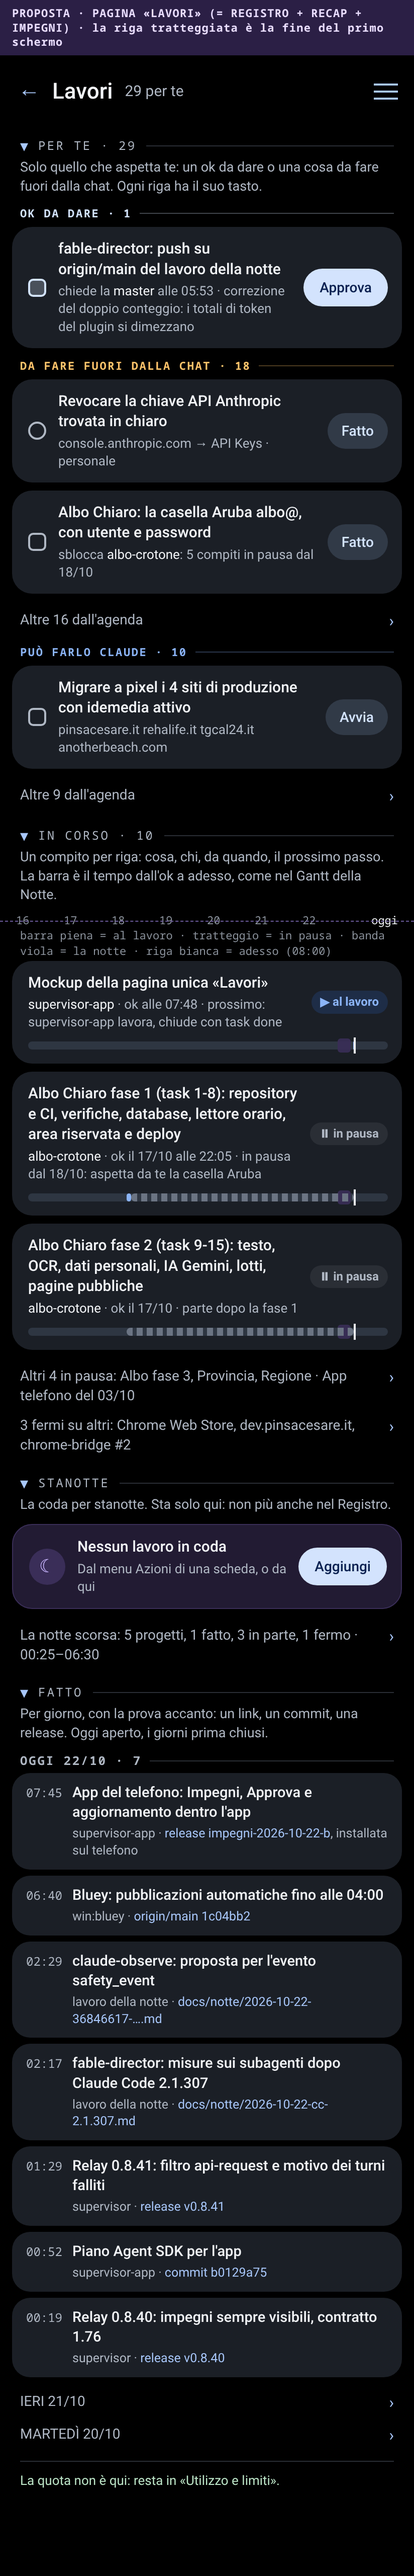
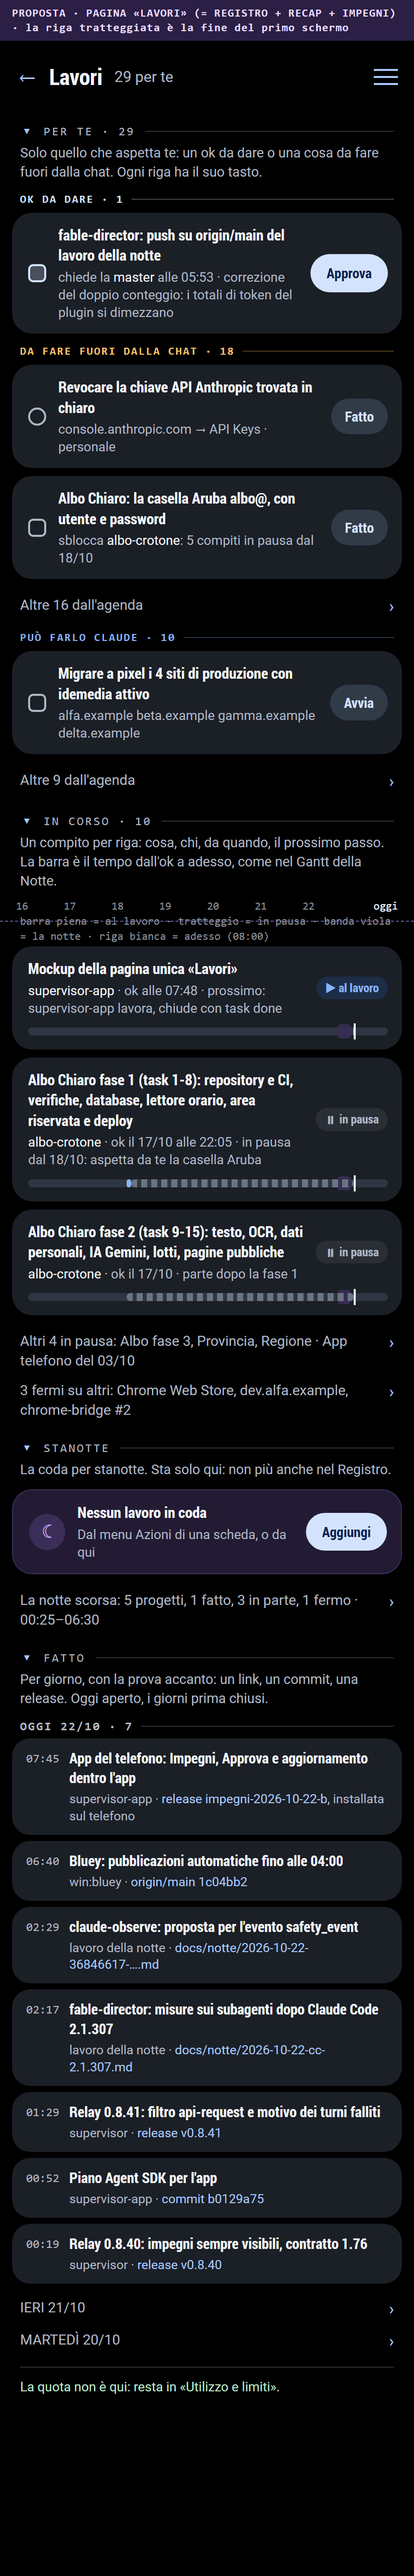
test, docs: neutral example names instead of real managed-site names in tests, verification notes and the Lavori mockup (supervisor-app-anonimizza-pubblici-28-10)

diff --git a/docs/mockup/2026-10-22-lavori/lavori-tablet.html b/docs/mockup/2026-10-22-lavori/lavori-tablet.html
@@ -64,7 +64,7 @@ body{width:1280px;background:var(--bg)}.screen{width:1280px;min-height:1360px;pa
 <div class=card><div class=row><span class="mark a"></span><div class=t><b>Albo Chiaro: la casella Aruba albo@, con utente e password</b><small>sblocca <em>albo-crotone</em>: 5 compiti in pausa dal 18/10</small></div><span class=tonal>Fatto</span></div></div>
 <div class=fold><span>Altre 16 dall'agenda</span><span class=ic>›</span></div>
 <div class=grp style="color:var(--run)">PUÒ FARLO CLAUDE · 10<i></i></div>
-<div class=card><div class=row><span class="mark a"></span><div class=t><b>Migrare a pixel i 4 siti di produzione con idemedia attivo</b><small>pinsacesare.it rehalife.it tgcal24.it anotherbeach.com</small></div><span class=tonal>Avvia</span></div></div>
+<div class=card><div class=row><span class="mark a"></span><div class=t><b>Migrare a pixel i 4 siti di produzione con idemedia attivo</b><small>alfa.example beta.example gamma.example delta.example</small></div><span class=tonal>Avvia</span></div></div>
 <div class=fold><span>Altre 9 dall'agenda</span><span class=ic>›</span></div>
 
 <div class=sec><span class=chev>▾</span>STANOTTE<span class=ln></span></div>
@@ -82,7 +82,7 @@ body{width:1280px;background:var(--bg)}.screen{width:1280px;min-height:1360px;pa
 <div class=card><div class=row><div class=t><b>Albo Chiaro fase 1 (task 1-8): repository e CI, verifiche, database, lettore orario, area riservata e deploy</b><small><em>albo-crotone</em> · ok il 17/10 alle 22:05 · in pausa dal 18/10: aspetta da te la casella Aruba</small></div><span class="state st-pa">⏸ in pausa</span></div><div class=track><i class=nite style="left:86%;width:3.6%"></i><i class=sol style="left:27.4%;width:1.2%"></i><i class=dash style="left:28.6%;width:61.9%"></i><i class=now style="left:90.5%"></i></div></div>
 <div class=card><div class=row><div class=t><b>Albo Chiaro fase 2 (task 9-15): testo, OCR, dati personali, IA Gemini, lotti, pagine pubbliche</b><small><em>albo-crotone</em> · ok il 17/10 · parte dopo la fase 1</small></div><span class="state st-pa">⏸ in pausa</span></div><div class=track><i class=nite style="left:86%;width:3.6%"></i><i class=dash style="left:27.4%;width:63.1%"></i><i class=now style="left:90.5%"></i></div></div>
 <div class=fold><span>Altri 4 in pausa: Albo fase 3, Provincia, Regione · App telefono del 03/10</span><span class=ic>›</span></div>
-<div class=fold><span>3 fermi su altri: Chrome Web Store, dev.pinsacesare.it, chrome-bridge #2</span><span class=ic>›</span></div>
+<div class=fold><span>3 fermi su altri: Chrome Web Store, dev.alfa.example, chrome-bridge #2</span><span class=ic>›</span></div>
 
 <div class=sec><span class=chev>▾</span>FATTO<span class=ln></span></div>
 <div class=expl>Per giorno, con la prova accanto: un link, un commit, una release. Oggi aperto, i giorni prima chiusi.</div>

diff --git a/docs/mockup/2026-10-22-lavori/lavori-telefono.html b/docs/mockup/2026-10-22-lavori/lavori-telefono.html
@@ -61,7 +61,7 @@ body{background:#120D1C;color:var(--text);font:15px/1.4 Roboto,system-ui,sans-se
 <div class=card><div class=row><span class="mark a"></span><div class=t><b>Albo Chiaro: la casella Aruba albo@, con utente e password</b><small>sblocca <em>albo-crotone</em>: 5 compiti in pausa dal 18/10</small></div><span class=tonal>Fatto</span></div></div>
 <div class=fold><span>Altre 16 dall'agenda</span><span class=ic>›</span></div>
 <div class=grp style="color:var(--run)">PUÒ FARLO CLAUDE · 10<i></i></div>
-<div class=card><div class=row><span class="mark a"></span><div class=t><b>Migrare a pixel i 4 siti di produzione con idemedia attivo</b><small>pinsacesare.it rehalife.it tgcal24.it anotherbeach.com</small></div><span class=tonal>Avvia</span></div></div>
+<div class=card><div class=row><span class="mark a"></span><div class=t><b>Migrare a pixel i 4 siti di produzione con idemedia attivo</b><small>alfa.example beta.example gamma.example delta.example</small></div><span class=tonal>Avvia</span></div></div>
 <div class=fold><span>Altre 9 dall'agenda</span><span class=ic>›</span></div>
 
 <div class=sec><span class=chev>▾</span>IN CORSO · 10<span class=ln></span></div>
@@ -74,7 +74,7 @@ body{background:#120D1C;color:var(--text);font:15px/1.4 Roboto,system-ui,sans-se
 <div class=card><div class=row><div class=t><b>Albo Chiaro fase 1 (task 1-8): repository e CI, verifiche, database, lettore orario, area riservata e deploy</b><small><em>albo-crotone</em> · ok il 17/10 alle 22:05 · in pausa dal 18/10: aspetta da te la casella Aruba</small></div><span class="state st-pa">⏸ in pausa</span></div><div class=track><i class=nite style="left:86%;width:3.6%"></i><i class=sol style="left:27.4%;width:1.2%"></i><i class=dash style="left:28.6%;width:61.9%"></i><i class=now style="left:90.5%"></i></div></div>
 <div class=card><div class=row><div class=t><b>Albo Chiaro fase 2 (task 9-15): testo, OCR, dati personali, IA Gemini, lotti, pagine pubbliche</b><small><em>albo-crotone</em> · ok il 17/10 · parte dopo la fase 1</small></div><span class="state st-pa">⏸ in pausa</span></div><div class=track><i class=nite style="left:86%;width:3.6%"></i><i class=dash style="left:27.4%;width:63.1%"></i><i class=now style="left:90.5%"></i></div></div>
 <div class=fold><span>Altri 4 in pausa: Albo fase 3, Provincia, Regione · App telefono del 03/10</span><span class=ic>›</span></div>
-<div class=fold><span>3 fermi su altri: Chrome Web Store, dev.pinsacesare.it, chrome-bridge #2</span><span class=ic>›</span></div>
+<div class=fold><span>3 fermi su altri: Chrome Web Store, dev.alfa.example, chrome-bridge #2</span><span class=ic>›</span></div>
 
 <div class=sec><span class=chev>▾</span>STANOTTE<span class=ln></span></div>
 <div class=expl>La coda per stanotte. Sta solo qui: non più anche nel Registro.</div>

diff --git a/docs/mockup/2026-10-22-lavori/home.html b/docs/mockup/2026-10-22-lavori/home.html
@@ -60,6 +60,6 @@ body{background:#120D1C;color:var(--text);font:15px/1.4 Roboto,system-ui,sans-se
 <div class=sec><span class=chev>▾</span>SESSIONI · 6<span class=ln></span></div>
 <div class=card><div class=row><span style="width:26px;height:26px;border-radius:50%;background:#3B82F6;flex:none"></span><div class=t><b>supervisor-app</b><small>mockup della pagina «Lavori» · al lavoro</small></div></div></div>
 <div class=card><div class=row><span style="width:26px;height:26px;border-radius:50%;background:#8B929C;flex:none"></span><div class=t><b>finanza</b><small>ferma da 14 ore</small></div></div></div>
-<div class=card><div class=row><span style="width:26px;height:26px;border-radius:50%;background:#8B929C;flex:none"></span><div class=t><b>smaggas-it</b><small>ferma da 11 ore</small></div></div></div>
+<div class=card><div class=row><span style="width:26px;height:26px;border-radius:50%;background:#8B929C;flex:none"></span><div class=t><b>shop-example-it</b><small>ferma da 11 ore</small></div></div></div>
 <div class=sec><span class=chev>▸</span>UTILIZZO<span class=ln></span><span class=sum>personale 5 h 2 % · settimana 0 %</span></div>
 </div>

diff --git a/mobile/src/test/kotlin/it/pixelbox/cmwatch/mobile/LavoriScreenTest.kt b/mobile/src/test/kotlin/it/pixelbox/cmwatch/mobile/LavoriScreenTest.kt
@@ -42,7 +42,7 @@ class LavoriScreenTest {
         AgendaRow("aperto", "personale", "franz", "Revocare la chiave API Anthropic trovata in chiaro", "console.anthropic.com → API Keys"),
         AgendaRow("aperto", "agenzia", "franz", "17 client_id residui: 6 con candidato da confermare", ".claude/DA-DECIDERE-client-id.md"),
         AgendaRow("aperto", "agenzia", "franz", "Svuotare i 46 container con Universal Analytics", ".claude/scan/tag-runtime.json"),
-        AgendaRow("aperto", "agenzia", "claude", "Migrare a pixel i 4 siti di produzione con idemedia attivo", "pinsacesare.it rehalife.it tgcal24.it"),
+        AgendaRow("aperto", "agenzia", "claude", "Migrare a pixel i 4 siti di produzione con idemedia attivo", "alfa.example beta.example gamma.example"),
         AgendaRow("aperto", "postazione", "claude", "Cancellare le cache orfane dei plugin", "~/.claude*/plugins/cache/"),
         AgendaRow("aperto", "postazione", "terzi", "Attesa revisione Chrome Web Store per chrome-bridge 1.12.0", "blocca la prova delle schede"),
         AgendaRow("fatto", "postazione", "nessuno", "Backups of the workstation every night", "crontab"),

diff --git a/mobile/src/test/kotlin/it/pixelbox/cmwatch/mobile/ClosingRowTest.kt b/mobile/src/test/kotlin/it/pixelbox/cmwatch/mobile/ClosingRowTest.kt
@@ -32,12 +32,12 @@ import java.time.ZoneId
 
 /**
  * chiusura-testo (Franz, 27/10 13:23, screenshot): nella card di una sessione finita che si sta chiudendo, il segno
- * «gerardosacco-com si sta chiudendo» stava accanto a «● aperta · ha finito il compito alle 13:07» e lo stato andava a
+ * «studio-example-com si sta chiudendo» stava accanto a «● aperta · ha finito il compito alle 13:07» e lo stato andava a
  * capo ogni due-tre lettere. Il segno va su una riga sua, sotto lo stato.
  */
 private object Closing {
     private val st = ContractJson.decodeState(File("../contract/state-1-question.json").readText())
-    const val NAME = "gerardosacco-com"
+    const val NAME = "studio-example-com"
     val state: State = st.copy(sessions = st.sessions.map {
         if (it.name != "field-notes") it
         else it.copy(name = NAME, state = SessionState.IDLE, finished = true, since = st.ts - 3600,

diff --git a/mobile/src/test/kotlin/it/pixelbox/cmwatch/mobile/SummaryListTest.kt b/mobile/src/test/kotlin/it/pixelbox/cmwatch/mobile/SummaryListTest.kt
@@ -42,7 +42,7 @@ class SummaryListTest {
         val st2 = idle.copy(commitments = night.commitments.take(1) + idle.commitments!!, approvals = listOf(ok))
         val agenda = it.pixelbox.cmwatch.contract.AgendaPage(listOf(
             it.pixelbox.cmwatch.contract.AgendaRow("aperto", "personale", "franz", "Revocare la chiave API Anthropic trovata in chiaro", "console.anthropic.com → API Keys"),
-            it.pixelbox.cmwatch.contract.AgendaRow("aperto", "agenzia", "claude", "Migrare a pixel i 4 siti con idemedia attivo", "pinsacesare.it rehalife.it"),
+            it.pixelbox.cmwatch.contract.AgendaRow("aperto", "agenzia", "claude", "Migrare a pixel i 4 siti con idemedia attivo", "alfa.example beta.example"),
         ), owner = "franz")
         val today = java.time.LocalDate.of(2026, 9, 12)
         CmPhoneTheme(still = true) {

diff --git a/web/src/lib/rules.test.ts b/web/src/lib/rules.test.ts
@@ -28,7 +28,7 @@ describe('Prossimi', () => {
     expect(b.steps).toEqual(['ok release claude-master 0.6.9', 'aggiorna il changelog', 'x'.repeat(40)])
     expect([...b.blocking]).toEqual(['ok release claude-master 0.6.9', 'x'.repeat(40)])
   })
-  it("«Esito:» dopo i Prossimi non li nasconde (social-pixelbox-it, 12/10 11:17)", () => {
+  it("«Esito:» dopo i Prossimi non li nasconde (social-example-it, 12/10 11:17)", () => {
     const r = parseSteps('In attesa del tuo ok.\n\nProssimi: ! ok push e deploy · ripubblica post 59 su FB dopo deploy\n\nEsito: push in attesa di ok.\nWatch: attende ok deploy')
     expect(r.text).toBe('In attesa del tuo ok.\n\nEsito: push in attesa di ok.\nWatch: attende ok deploy')
     expect(r.steps).toEqual(['ok push e deploy', 'ripubblica post 59 su FB dopo deploy'])

diff --git a/web/src/lib/emoji.test.ts b/web/src/lib/emoji.test.ts
@@ -6,7 +6,7 @@ describe('filtro delle emoji', () => {
   it('i simboli di stato in testa a un titolo del relay se ne vanno', () => {
     expect(stripEmoji('✓ atlas-release-2-4: check green')).toBe('atlas-release-2-4: check green')
     expect(stripEmoji('✗ ledger-migrations-011: check red')).toBe('ledger-migrations-011: check red')
-    expect(stripEmoji('⛔ social-pixelbox-it: limite cinque ore')).toBe('social-pixelbox-it: limite cinque ore')
+    expect(stripEmoji('⛔ social-example-it: limite cinque ore')).toBe('social-example-it: limite cinque ore')
     expect(stripEmoji('⚠ atlas-shop: turn failed — 529')).toBe('atlas-shop: turn failed — 529')
     expect(stripEmoji('❓ ledger-api')).toBe('ledger-api')
     expect(stripEmoji('⏸ orbit-docs in pausa')).toBe('orbit-docs in pausa')

diff --git a/core/src/test/kotlin/it/pixelbox/cmwatch/rules/EmojiTest.kt b/core/src/test/kotlin/it/pixelbox/cmwatch/rules/EmojiTest.kt
@@ -8,7 +8,7 @@ class EmojiTest {
     @Test fun statusSymbolsAtTheHeadOfARelayTitleGo() {
         assertEquals("atlas-release-2-4: check green", Emoji.strip("✓ atlas-release-2-4: check green"))
         assertEquals("ledger-migrations-011: check red", Emoji.strip("✗ ledger-migrations-011: check red"))
-        assertEquals("social-pixelbox-it: limite cinque ore", Emoji.strip("⛔ social-pixelbox-it: limite cinque ore"))
+        assertEquals("social-example-it: limite cinque ore", Emoji.strip("⛔ social-example-it: limite cinque ore"))
         assertEquals("atlas-shop: turn failed — 529", Emoji.strip("⚠ atlas-shop: turn failed — 529"))
         assertEquals("ledger-api", Emoji.strip("❓ ledger-api"))
         assertEquals("orbit-docs in pausa", Emoji.strip("⏸ orbit-docs in pausa"))

diff --git a/core/src/test/kotlin/it/pixelbox/cmwatch/rules/NextStepsTest.kt b/core/src/test/kotlin/it/pixelbox/cmwatch/rules/NextStepsTest.kt
@@ -38,7 +38,7 @@ class NextStepsTest {
     }
 
     /**
-     * Il testo vero di social-pixelbox-it (12/10 11:17): «Esito:» dopo i Prossimi, poi «Watch:». Il relay li leggeva, l'app e la
+     * Il testo vero di social-example-it (12/10 11:17): «Esito:» dopo i Prossimi, poi «Watch:». Il relay li leggeva, l'app e la
      * web no, e la riga restava testo invece di diventare tasti.
      */
     @Test fun esitoLineAfterIsSkipped() {

diff --git a/core/src/test/kotlin/it/pixelbox/cmwatch/rules/SpeakableNameTest.kt b/core/src/test/kotlin/it/pixelbox/cmwatch/rules/SpeakableNameTest.kt
@@ -7,7 +7,7 @@ class SpeakableNameTest {
     @Test fun specExamples() {
         assertEquals("atlas shop", SpeakableName.of("pix-atlas-shop-it"))
         assertEquals("ledger api", SpeakableName.of("ledger-api"))
-        assertEquals("fccrotone", SpeakableName.of("pix-fccrotone-it"))
+        assertEquals("orbit", SpeakableName.of("pix-orbit-it"))
     }
 
     @Test fun everyFinalDomainGoes() {

diff --git a/docs/mockup/2026-10-22-lavori/genera.py b/docs/mockup/2026-10-22-lavori/genera.py
@@ -71,7 +71,7 @@ PER_TE = """
 <div class=card><div class=row><span class="mark a"></span><div class=t><b>Albo Chiaro: la casella Aruba albo@, con utente e password</b><small>sblocca <em>albo-crotone</em>: 5 compiti in pausa dal 18/10</small></div><span class=tonal>Fatto</span></div></div>
 <div class=fold><span>Altre 16 dall'agenda</span><span class=ic>›</span></div>
 <div class=grp style="color:var(--run)">PUÒ FARLO CLAUDE · 10<i></i></div>
-<div class=card><div class=row><span class="mark a"></span><div class=t><b>Migrare a pixel i 4 siti di produzione con idemedia attivo</b><small>pinsacesare.it rehalife.it tgcal24.it anotherbeach.com</small></div><span class=tonal>Avvia</span></div></div>
+<div class=card><div class=row><span class="mark a"></span><div class=t><b>Migrare a pixel i 4 siti di produzione con idemedia attivo</b><small>alfa.example beta.example gamma.example delta.example</small></div><span class=tonal>Avvia</span></div></div>
 <div class=fold><span>Altre 9 dall'agenda</span><span class=ic>›</span></div>
 """
 
@@ -94,7 +94,7 @@ IN_CORSO = """
 <div class=card><div class=row><div class=t><b>Albo Chiaro fase 1 (task 1-8): repository e CI, verifiche, database, lettore orario, area riservata e deploy</b><small><em>albo-crotone</em> · ok il 17/10 alle 22:05 · in pausa dal 18/10: aspetta da te la casella Aruba</small></div><span class="state st-pa">⏸ in pausa</span></div>{bar(sol=(27.4, 1.2), dash=(28.6, 61.9))}</div>
 <div class=card><div class=row><div class=t><b>Albo Chiaro fase 2 (task 9-15): testo, OCR, dati personali, IA Gemini, lotti, pagine pubbliche</b><small><em>albo-crotone</em> · ok il 17/10 · parte dopo la fase 1</small></div><span class="state st-pa">⏸ in pausa</span></div>{bar(dash=(27.4, 63.1))}</div>
 <div class=fold><span>Altri 4 in pausa: Albo fase 3, Provincia, Regione · App telefono del 03/10</span><span class=ic>›</span></div>
-<div class=fold><span>3 fermi su altri: Chrome Web Store, dev.pinsacesare.it, chrome-bridge #2</span><span class=ic>›</span></div>
+<div class=fold><span>3 fermi su altri: Chrome Web Store, dev.alfa.example, chrome-bridge #2</span><span class=ic>›</span></div>
 """
 
 STANOTTE = """
@@ -137,7 +137,7 @@ HOME = page("PROPOSTA · HOME: UNA SOLA SEZIONE «LAVORI»", """
 <div class=sec><span class=chev>▾</span>SESSIONI · 6<span class=ln></span></div>
 <div class=card><div class=row><span style="width:26px;height:26px;border-radius:50%;background:#3B82F6;flex:none"></span><div class=t><b>supervisor-app</b><small>mockup della pagina «Lavori» · al lavoro</small></div></div></div>
 <div class=card><div class=row><span style="width:26px;height:26px;border-radius:50%;background:#8B929C;flex:none"></span><div class=t><b>finanza</b><small>ferma da 14 ore</small></div></div></div>
-<div class=card><div class=row><span style="width:26px;height:26px;border-radius:50%;background:#8B929C;flex:none"></span><div class=t><b>smaggas-it</b><small>ferma da 11 ore</small></div></div></div>
+<div class=card><div class=row><span style="width:26px;height:26px;border-radius:50%;background:#8B929C;flex:none"></span><div class=t><b>shop-example-it</b><small>ferma da 11 ore</small></div></div></div>
 <div class=sec><span class=chev>▸</span>UTILIZZO<span class=ln></span><span class=sum>personale 5 h 2 % · settimana 0 %</span></div>
 """)
 
